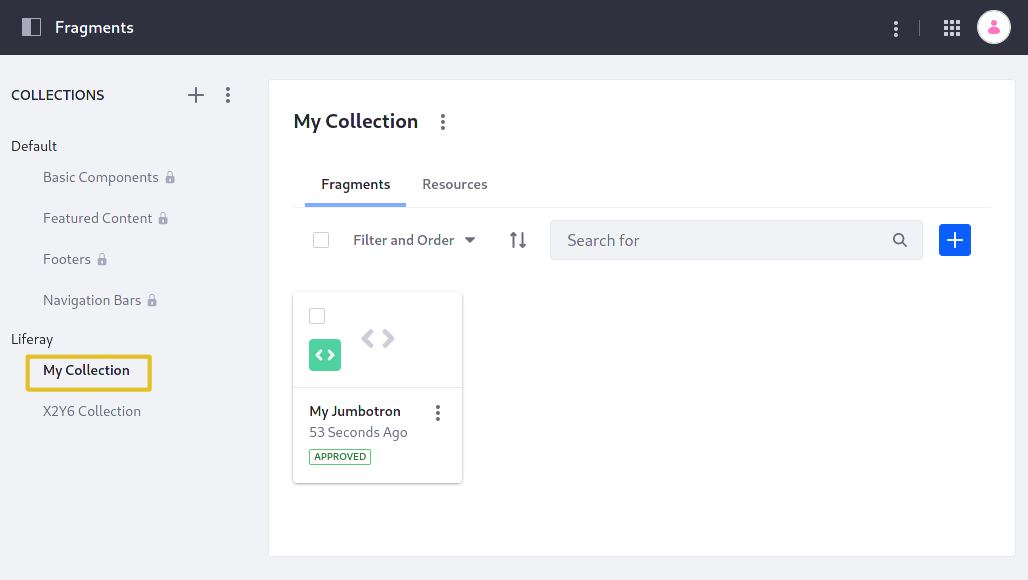
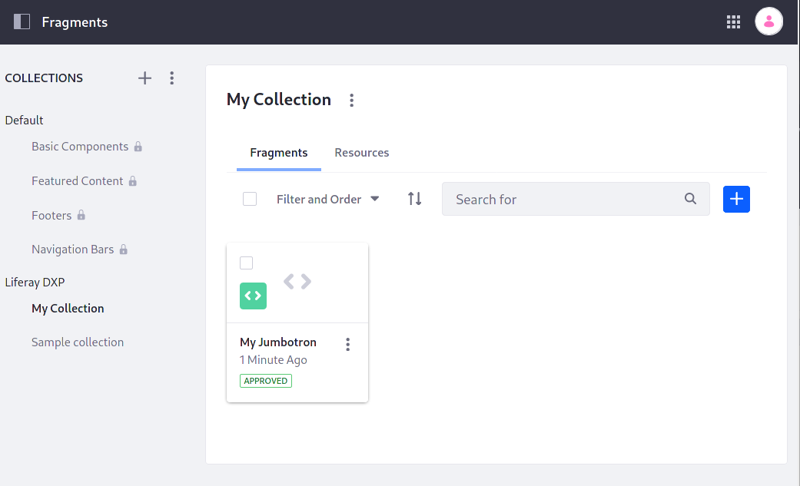
LRDOCS-8869 Wordsmith, reorganize, and update last image.

diff --git a/docs/dxp/7.x/en/site-building/developer-guide/developing-page-fragments/using-the-fragments-toolkit.md b/docs/dxp/7.x/en/site-building/developer-guide/developing-page-fragments/using-the-fragments-toolkit.md
@@ -1,6 +1,6 @@
 # Using the Fragments Toolkit
 
-The Fragments Toolkit helps you develop and manage Fragments locally, using your favorite tools. Here you'll use the toolkit to import an example Fragment Collection and to create and import your own Fragment Collection.
+The Fragments Toolkit helps you develop and manage Fragments locally, using your favorite tools. Here you'll use the toolkit to generate a Fragments Project with sample Fragments, deploy it, and add your own Fragments Collection to it.
 
 ## Setting Up the Toolkit
 
@@ -13,7 +13,7 @@ The toolkit requires this software:
 
 Node installers such as [Node.js LTS](https://nodejs.org/en/download/) include NPM and Node.js.
 
-Liferay's [setup_tutorial.sh](https://github.com/liferay/liferay-learn/blob/master/docs/_template/js/setup_tutorial.sh) script provides commands for setting up Yeoman, Yarn, and the toolkit and verifies successful setup. The script is available in our example JavaScript project ZIP files.
+Liferay's [setup_tutorial.sh](https://github.com/liferay/liferay-learn/blob/master/docs/_template/js/setup_tutorial.sh) script provides commands for setting up Yeoman, Yarn, and the toolkit. The script is available in the example ZIP file and all of our example JavaScript project ZIP files.
 
 1. Download and unzip the example ZIP file.
 
@@ -45,76 +45,66 @@ The Fragments Toolkit's `yo liferay-fragments` command launches an interface for
    Don't nest Fragments projects. Make sure to create new Fragments projects in their own location, outside of any existing Fragments projects.
 ```
 
-If you're in the liferay-x2y6.zip project folder, exit it. For example,
+If you're in the `liferay-x2y6.zip` project folder, exit it (e.g., `cd ..`).
 
-```bash
-cd ..
-```
-
-Here's how to generate a Fragments Project with sample data:
+Here's how to generate a Fragments Project:
 
 1. Launch the project generator by executing the `yo liferay-fragments` command:
 
     ```
-     yo liferay-fragments 
-
-        __    ____________________  _____  __
-       / /   /  _/ ____/ ____/ __ \/   \ \/ /
-      / /    / // /_  / __/ / /_/ / /| |\  /
-     / /____/ // __/ / /___/ _, _/ ___ |/ /
-    /_____/___/_/   /_____/_/ |_/_/  |_/_/
+    yo liferay-fragments 
     ```
 
-1. Accept the default project name by clicking enter.
+1. Name your project. For this example, accept the default project name by clicking enter.
 
     ```
     ? Project name (Sample Liferay Fragments)
     ```
 
-1. Add sample content by entering `Yes`.
+1. Indicate whether to add sample content. For this example, enter `Yes`.
 
     ```
     ? Add sample content? Yes
+    Creating directory
+       force .yo-rc.json
+      create src/.gitkeep
+      create .editorconfig
+      create .gitignore
+      create liferay-npm-bundler.config.js
+      create package.json
+      create README.md
+    Adding sample content...
+    Warning: some of these fragments are not compatible all
+    portal versions, please check the generator documentation before using them:
+    https://www.npmjs.com/package/generator-liferay-fragments#creating-new-fragments
+    Running yarn...
+    Done!
+    You're ready to create fragments.
+      create src/sample-collection/collection.json
+      create src/sample-collection/sample-fragment/index.html
+      create src/sample-collection/sample-fragment/main.js
+      create src/sample-collection/sample-fragment/styles.css
+      create src/sample-collection/sample-fragment/fragment.json
+      create src/sample-collection/sample-fragment/configuration.json
+      create src/sample-collection/sample-fragment-with-new-editables/index.html
+      create src/sample-collection/sample-fragment-with-new-editables/main.js
+      create src/sample-collection/sample-fragment-with-new-editables/styles.css
+      create src/sample-collection/sample-fragment-with-new-editables/fragment.json
+      create src/sample-collection/sample-fragment-with-new-editables/configuration.json
+      create src/sample-collection/sample-fragment-with-react/index.html
+      create src/sample-collection/sample-fragment-with-react/main.js
+      create src/sample-collection/sample-fragment-with-react/styles.css
+      create src/sample-collection/sample-fragment-with-react/fragment.json
+      create src/sample-collection/sample-fragment-with-react/configuration.json
     ```
-The generator creates your project in a folder called `sample-liferay-fragments`, derived from your project name `Sample Liferay Fragments`.
 
-```bash
-Creating directory
-   force .yo-rc.json
-  create src/.gitkeep
-  create .editorconfig
-  create .gitignore
-  create liferay-npm-bundler.config.js
-  create package.json
-  create README.md
-Adding sample content...
-Warning: some of these fragments are not compatible all
-portal versions, please check the generator documentation before using them:
-https://www.npmjs.com/package/generator-liferay-fragments#creating-new-fragments
-Running yarn...
-Done!
-You're ready to create fragments.
-  create src/sample-collection/collection.json
-  create src/sample-collection/sample-fragment/index.html
-  create src/sample-collection/sample-fragment/main.js
-  create src/sample-collection/sample-fragment/styles.css
-  create src/sample-collection/sample-fragment/fragment.json
-  create src/sample-collection/sample-fragment/configuration.json
-  create src/sample-collection/sample-fragment-with-new-editables/index.html
-  create src/sample-collection/sample-fragment-with-new-editables/main.js
-  create src/sample-collection/sample-fragment-with-new-editables/styles.css
-  create src/sample-collection/sample-fragment-with-new-editables/fragment.json
-  create src/sample-collection/sample-fragment-with-new-editables/configuration.json
-  create src/sample-collection/sample-fragment-with-react/index.html
-  create src/sample-collection/sample-fragment-with-react/main.js
-  create src/sample-collection/sample-fragment-with-react/styles.css
-  create src/sample-collection/sample-fragment-with-react/fragment.json
-  create src/sample-collection/sample-fragment-with-react/configuration.json
-```
+Congratulations on generating your Fragments Project!
+
+The generator creates each project in a folder derived from the project name. For example, since you named the project `Sample Liferay Fragments`, the generator created a project folder called `sample-liferay-fragments`.
 
 ## Import the Sample Collection
 
-Import the sample Fragment Collection to see what it looks like:
+Import the sample Fragment Collection to Liferay to view the Fragments:
 
 1. Run the command below to start the Docker container:
 
@@ -207,28 +197,28 @@ The Fragments Toolkit facilitates creating Fragment Collections.
 
 Create a Fragment Collection in your existing project with the `yarn run add-collection` command and answer the prompts with your Collection's name and an optional description:
 
-    ```bash
-    yarn run add-collection
+```bash
+yarn run add-collection
 
-    > yo liferay-fragments:collection
+> yo liferay-fragments:collection
 
-    ? Collection name (required) My Collection
-    ? Collection description (optional) This is my new Fragment Collection.
-       create src/my-collection/collection.json
-    ```
+? Collection name (required) My Collection
+? Collection description (optional) This is my new Fragment Collection.
+   create src/my-collection/collection.json
+```
 
-    Resulting `collection.json` file:
+Resulting `collection.json` file:
 
-    ```json
-    {
-        "description": "This is my new Fragment Collection.",
-        "name": "My Collection"
-    }
-    ```
+```json
+{
+    "description": "This is my new Fragment Collection.",
+    "name": "My Collection"
+}
+```
 
-## Add a New Fragment
+## Create a New Fragment
 
-The `add-fragment` command generates a Fragment per your input. The command line interface (CLI) differs between Fragments Toolkit versions.
+The `add-fragment` command generates a Fragment per your input.
 
 1. Run the `add-fragment` command.
 
@@ -296,6 +286,8 @@ Here's the generated Fragment HTML that uses the new `data-lfr` editable syntax:
 </div>
 ```
 
+## Edit Your Fragment 
+
 You can build off of the above HTML and use [Clay](https://clayui.com/)'s [Bootstrap](https://getbootstrap.com/)-based components to create Fragment HTML like this:
 
 ```html
@@ -361,7 +353,7 @@ You can also include resources in your Fragments. See [Including Default Resourc
   The Fragment and configuration object are passed in as arguments in JavaScript and are available as ``fragmentElement`` and ``configuration`` parameters, respectively.
 ```
 
-## Import and Test
+## Import Your New Fragment
 
 You can import your new Fragment as you did the original example Fragment:
 
